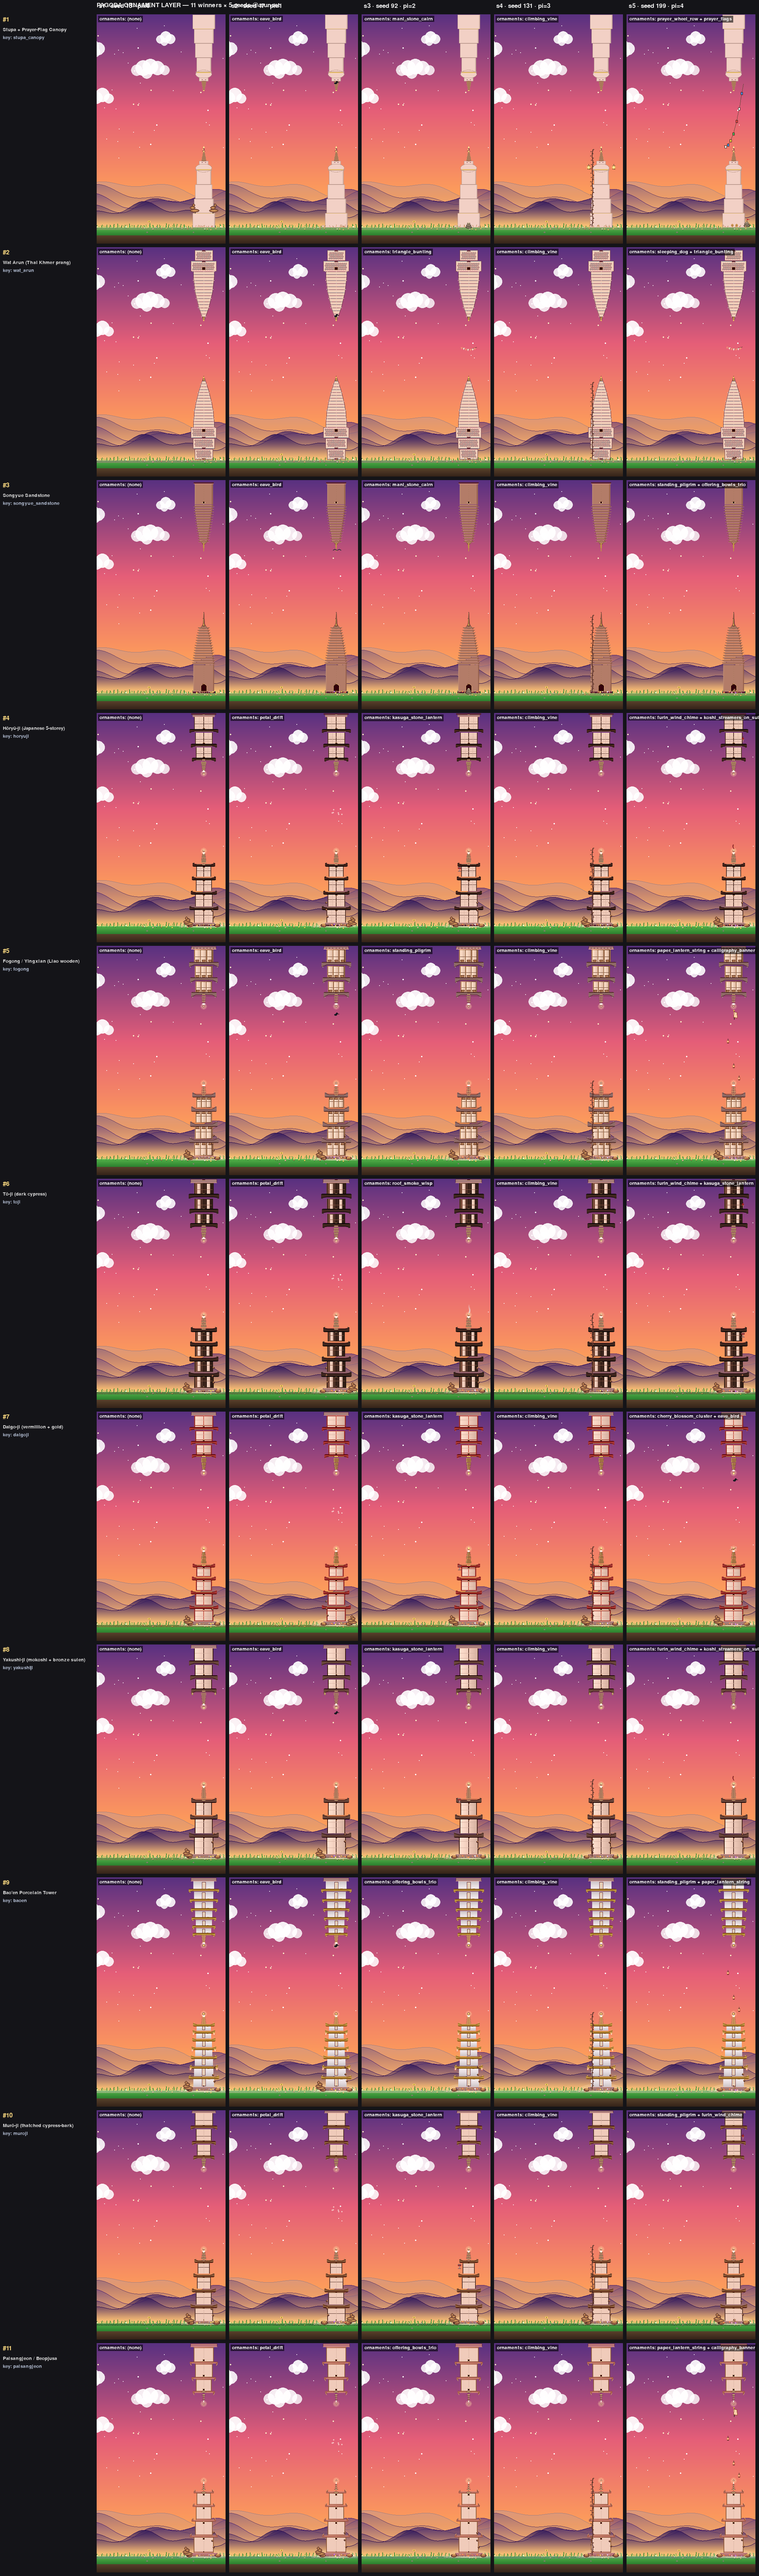
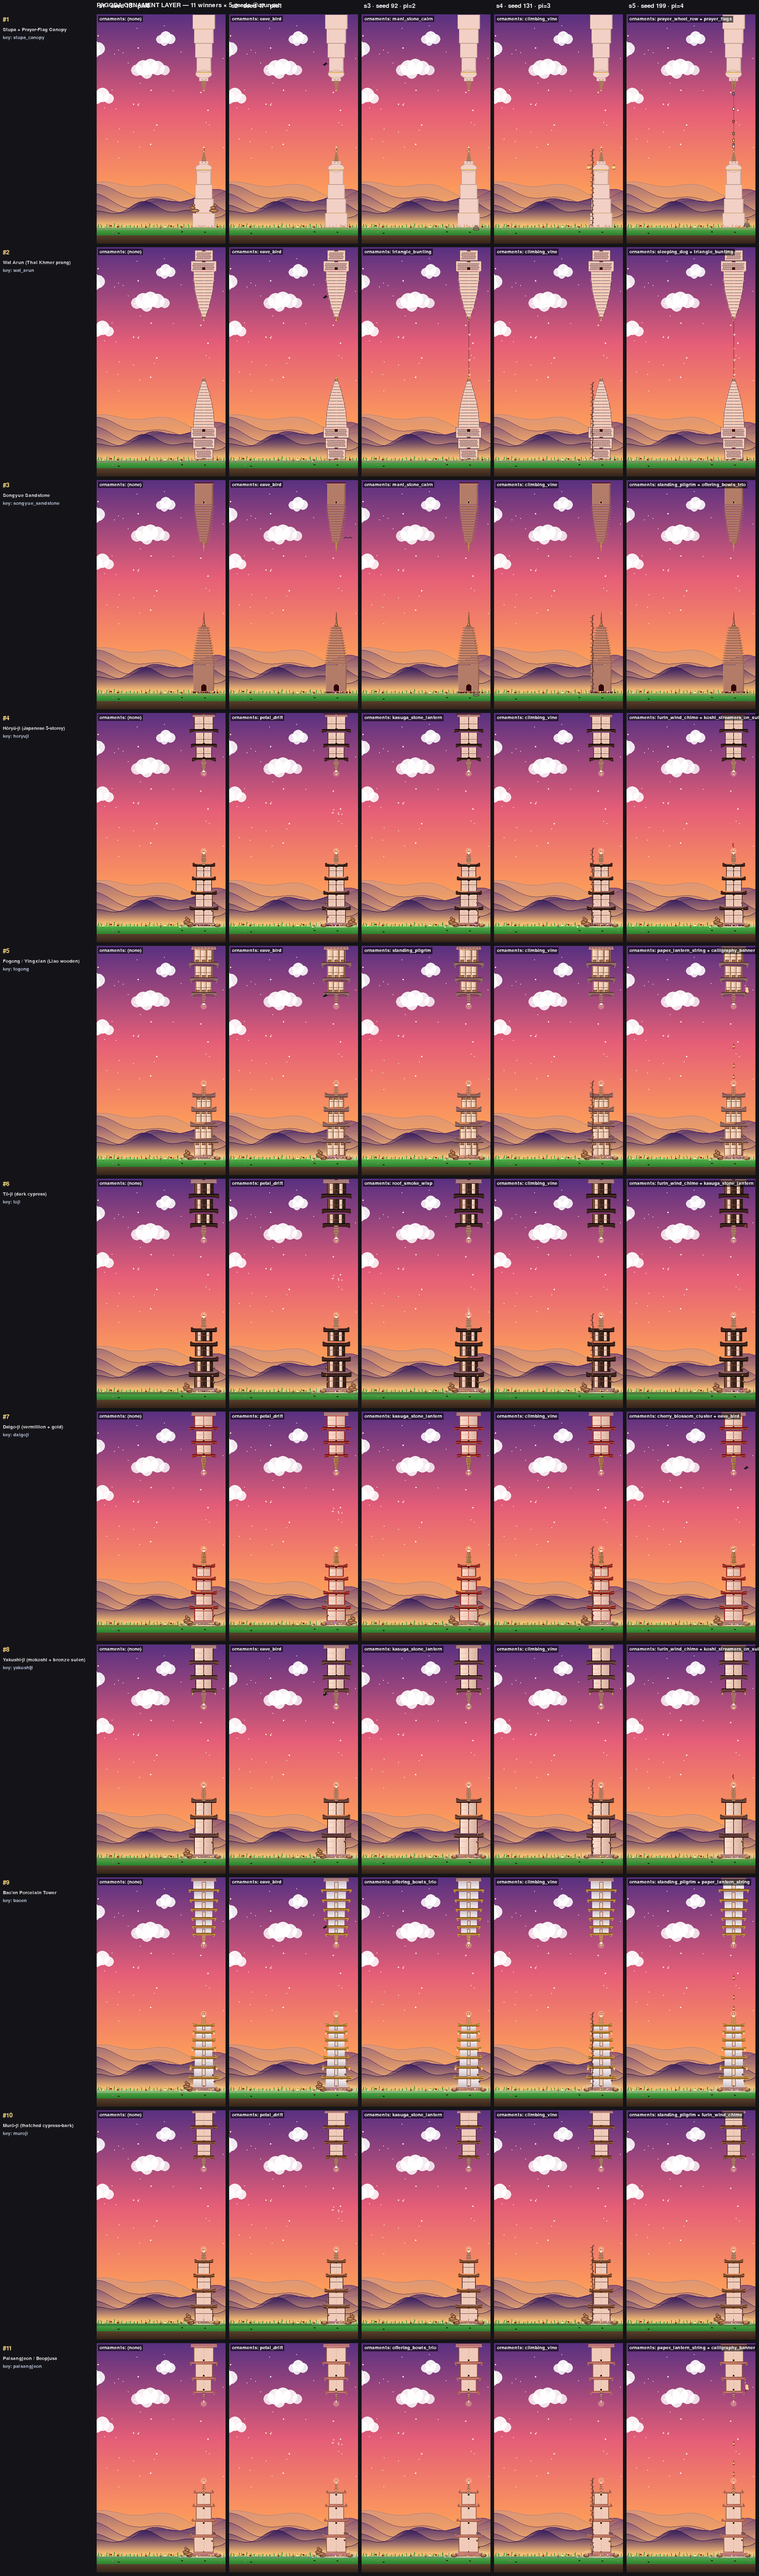
Pagoda pillars round 17: anchor ornaments to pagoda geometry
User feedback on round 16: "Don't just take decorations from
pillars, adjust them to match the pagoda design. Like the prayer
flag should connect to the tips, not taken as is."

Round 16 imported the live-game ornament helpers but kept
rect-corner anchors from the sandstone-pillar era. Pagodas have
central spire/finial tips that poke into the gap; the rope should
hang TIP TO TIP, not corner to corner. Same applies to lanterns
hanging from eave overhangs (outside the rect width) and plinth
ornaments resting on GROUND_Y.

5 anchor-resolver fixes in apply_ornaments:
- GAP: prayer_flags / paper_lantern_string / triangle_bunting /
  suspended_bell_chain / fairy_light_string now anchor at
  (bot_centerx, bot_rect.top) and (top_centerx, top_rect.bottom)
  - the finial-tip centerlines on the two pillars. Promoted the
  three remaining gap-spanning ornaments into the _DIRECT_DRAW
  set so they get the full-rect signature and rope catenary.
- EAVE: lanterns / fūrin / cherry-cluster hang from eave-corner
  overhangs (rect.x ± 4, storey-row y), respecting
  FORBID_BOTTOM_EAVE (furin + kasuga lantern forced to top row).
- FINIAL: pole_flag / koshi_streamers anchor at the spire-tip
  centerline (bcx, bot_rect.top - 2) so the flag pokes up out of
  the sōrin top.
- PLINTH: cairns / lanterns / bonsai / pilgrims / dogs / cats /
  prayer wheels rest on GROUND_Y at seed-driven left/right/centre
  positions, not floating beside the rect.
[…]

diff --git a/archive/pillar_redesign/pagoda_ornaments.py b/archive/pillar_redesign/pagoda_ornaments.py
@@ -70,7 +70,7 @@ from typing import Callable
 import pygame
 
 from game import biome as _biome
-from game.config import PIPE_W
+from game.config import PIPE_W, GROUND_Y
 from game.pillar_variants import (
     draw_climbing_vine, draw_prayer_flags, draw_cairn, draw_darchog_pole,
     draw_incense_smoke, draw_bird_sil, draw_raven, draw_paper_lantern,
@@ -164,44 +164,28 @@ ZONE_ROOF = "roof"
 # ── Direct-draw ornaments (use pillar rects) ────────────────────────────────
 
 def _draw_prayer_flags(surf, top_rect, bot_rect, palette, seed, **flags):
-    # Headline ornament — Tibetan-style prayer-flag canopy strung between
-    # the two pillar tips with a sagging rope, matching the lungta/monastery
-    # variants in the live game. Anchor points are the gap's two opposite
-    # corners: top-pillar's bottom-left and bottom-pillar's top-right (and
-    # alternated by seed so the rope direction varies across pillars).
-    bcx = bot_rect.x + bot_rect.width // 2
-    tcx = top_rect.x + top_rect.width // 2
-    # Diagonal endpoints across the gap so the rope clearly spans tip-to-tip.
-    if seed % 2 == 0:
-        x1 = tcx - PIPE_W // 2 + 2
-        x2 = bcx + PIPE_W // 2 - 2
-    else:
-        x1 = tcx + PIPE_W // 2 - 2
-        x2 = bcx - PIPE_W // 2 + 2
-    y1 = top_rect.bottom - 1
-    y2 = bot_rect.y + 1
-    draw_prayer_flags(surf, x1, y1, x2, y2, n=7)
+    # Headline ornament — Tibetan-style prayer-flag canopy strung tip-to-tip
+    # between the two pagodas' finial spires (sōrin / bot pillar, inverted
+    # finial / top pillar). The catenary that `draw_prayer_flags` sags
+    # naturally reads as a real monastery rope hung between two stupa peaks.
+    bcx = bot_rect.centerx
+    tcx = top_rect.centerx
+    draw_prayer_flags(surf, tcx, top_rect.bottom, bcx, bot_rect.top, n=7)
 
 
 def _draw_paper_lantern_string(surf, top_rect, bot_rect, palette, seed, **flags):
-    # Sag-arc of 3 small paper lanterns along a catenary between the
-    # top-pillar's bottom and the bottom-pillar's top — gap-spanning so
-    # the strand reads as suspended decoration, not a coin column.
-    bcx = bot_rect.x + bot_rect.width // 2
-    tcx = top_rect.x + top_rect.width // 2
-    # Diagonal corners of the gap so the catenary sags naturally.
-    x1 = tcx - PIPE_W // 2 + 3
-    y1 = top_rect.bottom - 1
-    x2 = bcx + PIPE_W // 2 - 3
-    y2 = bot_rect.y + 1
+    # Sag-arc of 3 paper lanterns hung along a catenary stretched between
+    # the two pagodas' finial-tip centerlines — the same anchor points the
+    # prayer-flag rope uses, so the chain reads as a real suspended strand
+    # between two spires, not a coin column floating in the gap.
+    x1, y1 = top_rect.centerx, top_rect.bottom
+    x2, y2 = bot_rect.centerx, bot_rect.top
     sag = 10
-    for i, t in enumerate((0.20, 0.50, 0.80)):
-        # Quadratic Bézier through a sag midpoint between the two anchors.
-        mx, my = (x1 + x2) // 2, max(y1, y2) + sag
+    mx, my = (x1 + x2) // 2, max(y1, y2) + sag
+    for t in (0.25, 0.50, 0.75):
+        # Quadratic Bézier through a sag midpoint between the two finial tips.
         bx = (1 - t) ** 2 * x1 + 2 * (1 - t) * t * mx + t * t * x2
         by = (1 - t) ** 2 * y1 + 2 * (1 - t) * t * my + t * t * y2
-        # `draw_paper_lantern` draws its own cord downward from (x,y); pass
-        # a short strand so the lantern hangs just below the catenary line.
         draw_paper_lantern(surf, int(bx), int(by), strand=4, scale=0.55,
                            color='red')
 
@@ -312,20 +296,22 @@ def _draw_koshi_streamers_on_suien(surf, anchor, palette, seed, **flags):
     draw_ribbons_tied(surf, cx, cy, n=2, width=10, seed=seed)
 
 
-def _draw_triangle_bunting(surf, anchor, palette, seed, **flags):
-    # 2-color alternation (AD-mandated). Span across the gap. Round-16:
-    # bumped each flag to 5×5 px minimum so they read at game scale.
-    cx, cy = anchor
-    x1 = cx - 22
-    x2 = cx + 22
-    sag = 6
+def _draw_triangle_bunting(surf, top_rect, bot_rect, palette, seed, **flags):
+    # Direct-draw gap-spanner: bunting cord anchored at the two finial-tip
+    # centerlines (top pillar's inverted finial down, bottom pillar's sōrin
+    # up) with a Bézier sag, then 2-color triangle flags step along the
+    # catenary so the strand reads as a real festival rope, not a sticker.
+    x1, y1 = top_rect.centerx, top_rect.bottom
+    x2, y2 = bot_rect.centerx, bot_rect.top
+    sag = 8
+    mx, my = (x1 + x2) // 2, max(y1, y2) + sag
     rope = _mix(palette['stone_dark'], (60, 45, 30), 0.7)
     pts = []
     steps = 14
     for i in range(steps + 1):
         t = i / steps
-        bx = x1 + (x2 - x1) * t
-        by = cy + math.sin(t * math.pi) * sag
+        bx = (1 - t) ** 2 * x1 + 2 * (1 - t) * t * mx + t * t * x2
+        by = (1 - t) ** 2 * y1 + 2 * (1 - t) * t * my + t * t * y2
         pts.append((int(bx), int(by)))
     for i in range(len(pts) - 1):
         pygame.draw.line(surf, rope, pts[i], pts[i + 1], 1)
@@ -502,24 +488,30 @@ def _draw_mani_stone_cairn(surf, anchor, palette, seed, **flags):
     draw_cairn(surf, cx, cy + 8, n=4, pennant=False)
 
 
-def _draw_suspended_bell_chain(surf, anchor, palette, seed, **flags):
-    # AD: single central bell only (was a chain of 3). Round-16: bell body
-    # enlarged to ~6×7 px so the silhouette reads at game scale.
-    cx, cy = anchor
+def _draw_suspended_bell_chain(surf, top_rect, bot_rect, palette, seed, **flags):
+    # Direct-draw gap-spanner: a single bronze bell hangs at the catenary
+    # midpoint between the two finial-tip centerlines, chained up to the
+    # top pagoda's inverted spire so the bell reads as suspended FROM the
+    # roof, not floating in the middle of the gap.
+    tx, ty = top_rect.centerx, top_rect.bottom
+    bx_anchor, by_anchor = bot_rect.centerx, bot_rect.top
+    cx = (tx + bx_anchor) // 2
+    cy = (ty + by_anchor) // 2
     chain = _mix(palette['stone_dark'], (60, 50, 40), 0.7)
     bronze = _mix(palette['stone_accent'], (170, 130, 70), 0.70)
     bronze_d = _shade(bronze, -30)
-    pygame.draw.line(surf, chain, (cx, cy), (cx, cy + 4), 1)
+    # Chain trails up from the bell to the top pillar's inverted finial tip.
+    pygame.draw.line(surf, chain, (cx, cy), (tx, ty), 1)
     # Outer (shaded) silhouette ~7 px wide × 7 px tall.
     pygame.draw.polygon(surf, bronze_d,
-                        [(cx - 5, cy + 4), (cx + 5, cy + 4),
-                         (cx + 4, cy + 11), (cx - 4, cy + 11)])
+                        [(cx - 5, cy), (cx + 5, cy),
+                         (cx + 4, cy + 7), (cx - 4, cy + 7)])
     # Inner highlight ~5 px wide × 6 px tall.
     pygame.draw.polygon(surf, bronze,
-                        [(cx - 4, cy + 5), (cx + 4, cy + 5),
-                         (cx + 3, cy + 10), (cx - 3, cy + 10)])
+                        [(cx - 4, cy + 1), (cx + 4, cy + 1),
+                         (cx + 3, cy + 6), (cx - 3, cy + 6)])
     # Clapper.
-    pygame.draw.line(surf, bronze_d, (cx, cy + 10), (cx, cy + 13), 1)
+    pygame.draw.line(surf, bronze_d, (cx, cy + 6), (cx, cy + 9), 1)
 
 
 def _draw_roof_smoke_wisp(surf, anchor, palette, seed, **flags):
@@ -542,25 +534,27 @@ def _draw_sleeping_dog(surf, anchor, palette, seed, **flags):
     pygame.draw.circle(surf, nose, (cx + 5, cy - 1), 1)
 
 
-def _draw_fairy_light_string(surf, anchor, palette, seed, **flags):
-    # NIGHT_ONLY. Warm-amber dots only, spacing >=5 px. Luminance clamped
-    # to <=60% of coin. Round-16: bumped to radius-2 so the dots actually
-    # read at game scale (was sub-pixel).
-    cx, cy = anchor
+def _draw_fairy_light_string(surf, top_rect, bot_rect, palette, seed, **flags):
+    # NIGHT_ONLY direct-draw gap-spanner. Warm-amber dots clamped to <=60%
+    # of coin luma so the string reads as ambient lights, not a coin column.
+    # Cord catenaries between the two finial-tip centerlines, matching the
+    # prayer-flag rope so multiple gap ornaments share one visual grammar.
+    x1, y1 = top_rect.centerx, top_rect.bottom
+    x2, y2 = bot_rect.centerx, bot_rect.top
+    sag = 6
+    mx, my = (x1 + x2) // 2, max(y1, y2) + sag
     amber = (NIGHT_LUMA_CAP, int(NIGHT_LUMA_CAP * 0.78), int(NIGHT_LUMA_CAP * 0.22))
     cord = _mix(palette['stone_dark'], (40, 30, 25), 0.8)
-    x1, x2 = cx - 26, cx + 26
-    sag = 4
     pts = []
     steps = 12
     for i in range(steps + 1):
         t = i / steps
-        bx = x1 + (x2 - x1) * t
-        by = cy + math.sin(t * math.pi) * sag
+        bx = (1 - t) ** 2 * x1 + 2 * (1 - t) * t * mx + t * t * x2
+        by = (1 - t) ** 2 * y1 + 2 * (1 - t) * t * my + t * t * y2
         pts.append((int(bx), int(by)))
     for i in range(len(pts) - 1):
         pygame.draw.line(surf, cord, pts[i], pts[i + 1], 1)
-    # 9 dots along ~52 px → ~6 px spacing (>=5 px AD requirement).
+    # 9 dots along the catenary → ~5-6 px spacing (>=5 px AD requirement).
     n = 9
     for i in range(n):
         px, py = pts[int((i + 0.5) / n * steps)]
@@ -651,10 +645,16 @@ assert len(_REGISTRY) == 27, f"ornament count drift: {len(_REGISTRY)}"
 # Ornaments whose geometry needs the actual pillar rects (gap span, full
 # body length) — these bypass the cell cache and draw straight onto the
 # live surface. Everything else uses the 64×64 cell cache for cheap
-# palette-bucketed reuse across pillars.
+# palette-bucketed reuse across pillars. Every gap-spanning rope ornament
+# lives here so the catenary anchors at the two finial-tip centerlines
+# (bot_rect.top and top_rect.bottom centered on cx), not at a 64-px cell
+# centered on a single picked anchor.
 _DIRECT_DRAW: set[str] = {
     "prayer_flags",
     "paper_lantern_string",
+    "triangle_bunting",
+    "suspended_bell_chain",
+    "fairy_light_string",
     "climbing_vine",
 }
 
@@ -932,6 +932,16 @@ FLAG_OVERRIDES: dict[str, dict[str, dict]] = {
 # bottom pillar is the dominant ornament surface because it's the one the
 # bird flies past at body height.
 
+# Storey-row geometry used by the eave anchor resolver. The pagoda envelopes
+# in `pillar_pagoda_variants*.py` use finial_h ≈ 36 and tier rows roughly
+# 18 px apart; resolving to the actual storey grid would require importing
+# the envelope solver here. The approximation is accurate enough for hanging
+# ornaments to read as "off the eave corner" rather than "off the rect edge".
+_FINIAL_H_APPROX = 36
+_STOREY_H_APPROX = 18
+_EAVE_OVERHANG = 4  # px the eave-corner sticks out past the rect width
+
+
 def _anchor_for_zone(zone: str, top_rect: pygame.Rect,
                      bot_rect: pygame.Rect, rng: random.Random,
                      forbid_bottom_eave: bool = False) -> tuple[int, int]:
@@ -946,33 +956,48 @@ def _anchor_for_zone(zone: str, top_rect: pygame.Rect,
         # Just below the gap roof, on the bottom pillar's upper shaft.
         return (bcx + rng.randint(-4, 4), bot_rect.y + 14 + rng.randint(0, 8))
     if zone == ZONE_GAP:
+        # Cell-based GAP ornaments are ambient (petal drift, fireflies) — a
+        # rough gap-midpoint anchor is correct. Gap-spanning rope ornaments
+        # live in _DIRECT_DRAW and use top_rect/bot_rect finial tips
+        # explicitly, so they never hit this branch.
         return (bcx + rng.randint(-3, 3), gap_mid_y + rng.randint(-4, 4))
     if zone == ZONE_PLINTH:
-        # Forbid the bottom-most plinth lip when the ornament could be
-        # confused with a coin dangling at the gap edge (AD round 15).
-        # Lift the anchor onto an upper-storey side eave of the BOTTOM
-        # pillar so the silhouette never overlaps the flight corridor.
-        if forbid_bottom_eave:
-            side = -1 if rng.random() < 0.5 else 1
-            return (bcx + side * (bot_rect.width // 2 - 3),
-                    bot_rect.y + bot_rect.height // 3)
-        return (bcx + rng.randint(-6, 6), bot_rect.bottom - 6)
+        # Plinth ornaments REST on the actual ground line, not float a few
+        # px above the bottom-pillar rect. Seed-driven side choice puts the
+        # item at the left edge, right edge, or centered on the plinth.
+        plinth_inset = 8
+        roll = rng.random()
+        if roll < 0.34:
+            return (bot_rect.x + plinth_inset, GROUND_Y)
+        if roll < 0.67:
+            return (bot_rect.right - plinth_inset, GROUND_Y)
+        return (bcx, GROUND_Y)
     if zone == ZONE_FINIAL:
-        return (bcx, bot_rect.y + 2)
+        # FINIAL zone = bottom pagoda's sōrin tip. Push 2 px INTO the spire
+        # so a pole flag / streamers emerge from the top jewel rather than
+        # floating above it.
+        return (bcx, bot_rect.top - 2)
     if zone == ZONE_EAVE:
-        # Forbidding the bottom eave pushes the anchor up to a SIDE eave
-        # (left or right corner of an upper storey) on the TOP pillar so
-        # the ornament hangs against the body silhouette, not into the gap.
-        if forbid_bottom_eave:
-            side = -1 if rng.random() < 0.5 else 1
-            # Top half of the visible storeys → roughly upper third of
-            # top_rect; clear of the eave row that overhangs the gap.
-            upper_y = top_rect.y + max(6, top_rect.height // 3)
-            return (tcx + side * (top_rect.width // 2 - 3), upper_y)
-        return (tcx + rng.randint(-3, 3), top_rect.bottom - 2)
+        # The TOP pillar is the inverted-hanging pagoda; its eaves point
+        # down into the gap and curl UP at the corners. Anchor at one of
+        # those eave-corner tips (left or right, seed-picked) on a row
+        # measured from the inverted-finial end. Row 0 = the row CLOSEST
+        # to the gap; rows 1-2 = progressively further from the gap (up
+        # toward the inverted plinth at top_rect.top). FORBID_BOTTOM_EAVE
+        # forces row=2 so coin-confound items hang well above the flight
+        # corridor against the inverted upper-body silhouette.
+        side = -1 if rng.random() < 0.5 else 1
+        eave_row = 2 if forbid_bottom_eave else rng.randint(0, 2)
+        y_eave = top_rect.bottom - _FINIAL_H_APPROX - eave_row * _STOREY_H_APPROX
+        if side < 0:
+            return (top_rect.x - _EAVE_OVERHANG, y_eave)
+        return (top_rect.right + _EAVE_OVERHANG, y_eave)
     if zone == ZONE_ROOF:
-        return (bcx + rng.randint(-4, 4), bot_rect.y - 4)
-    return (bcx, bot_rect.bottom - 4)
+        # Pigeon / cat / smoke wisp sit on the topmost eave centerline,
+        # 2 px INTO the spire so the silhouette overlaps the roofline
+        # rather than floating above it.
+        return (bcx, bot_rect.top + 2)
+    return (bcx, GROUND_Y)
 
 
 # ── Picker ─────────────────────────────────────────────────────────────────
